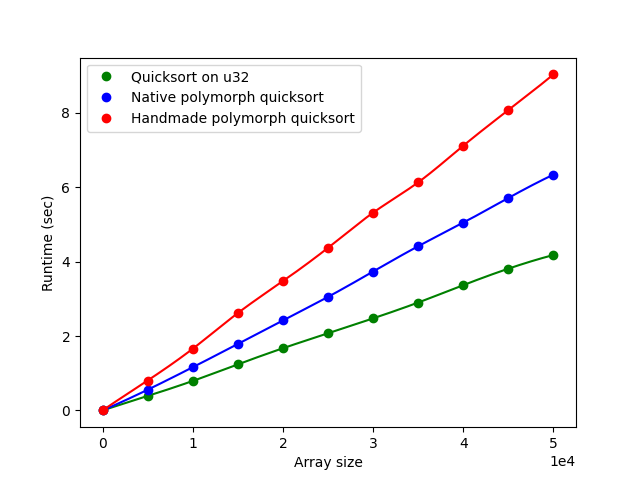
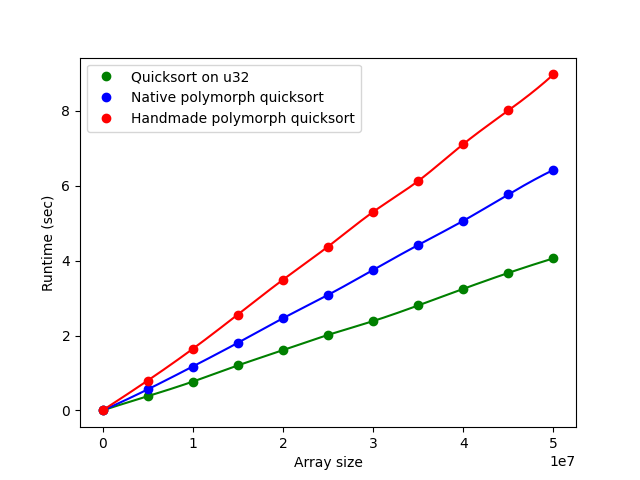
Fixed division in wrapper, recompiled and plotted in -O2

diff --git a/wrapper.py b/wrapper.py
@@ -73,7 +73,7 @@ def plot_performances(option, name, color):
         print(line)
         data = line.split()
         # Getting x and y values
-        x = int(data[-2][:-1])/1000
+        x = int(data[-2][:-1])
         y = float(data[-1])
         xi.append(x)
         yi.append(y)
